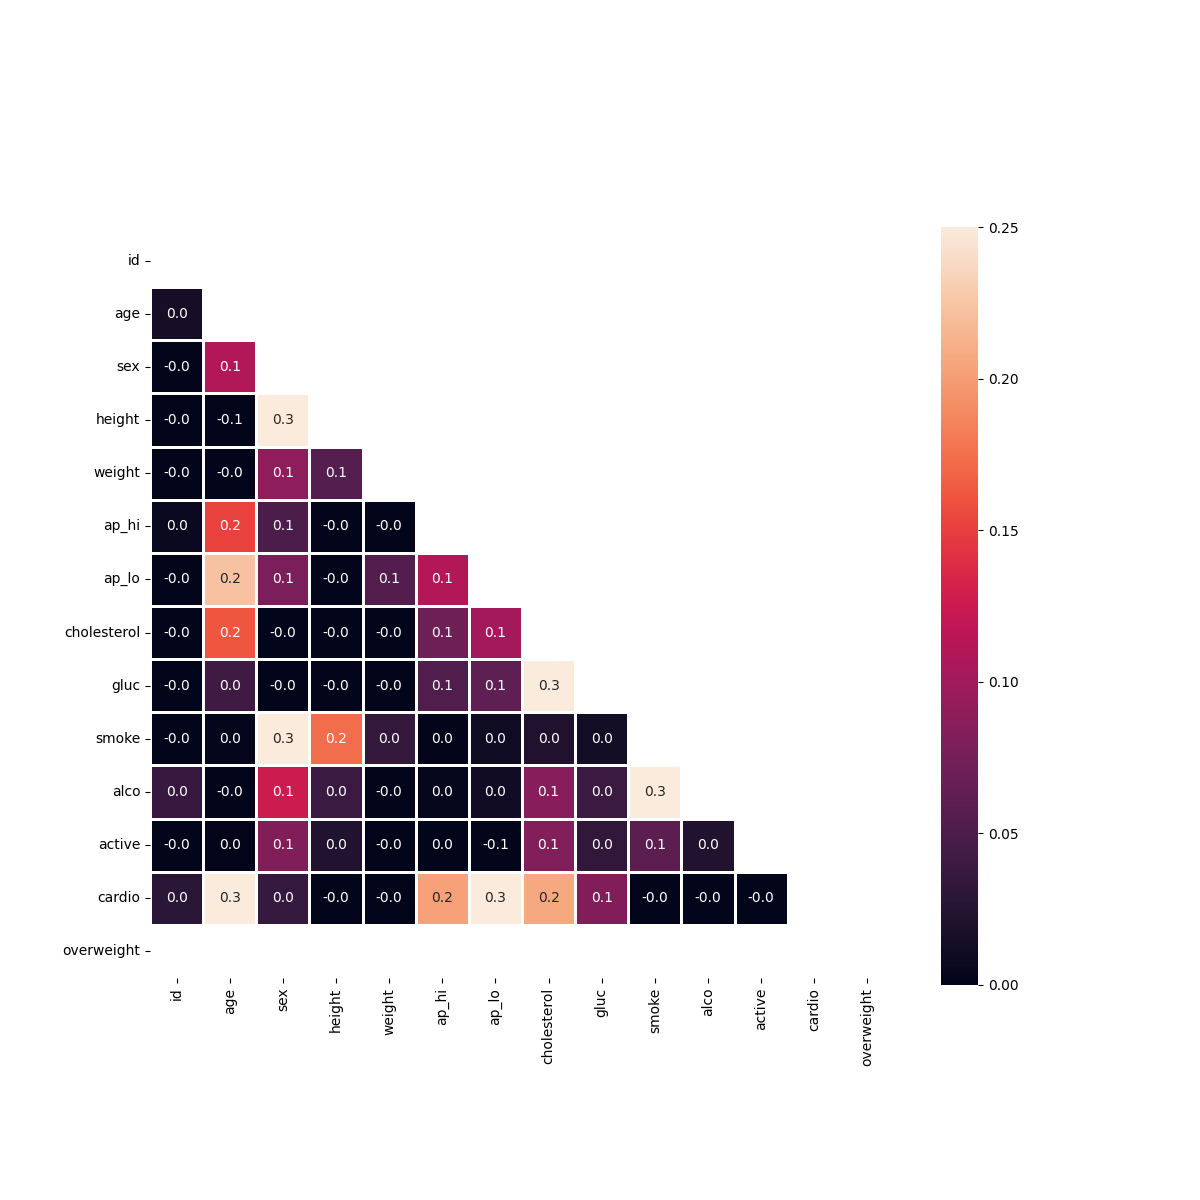
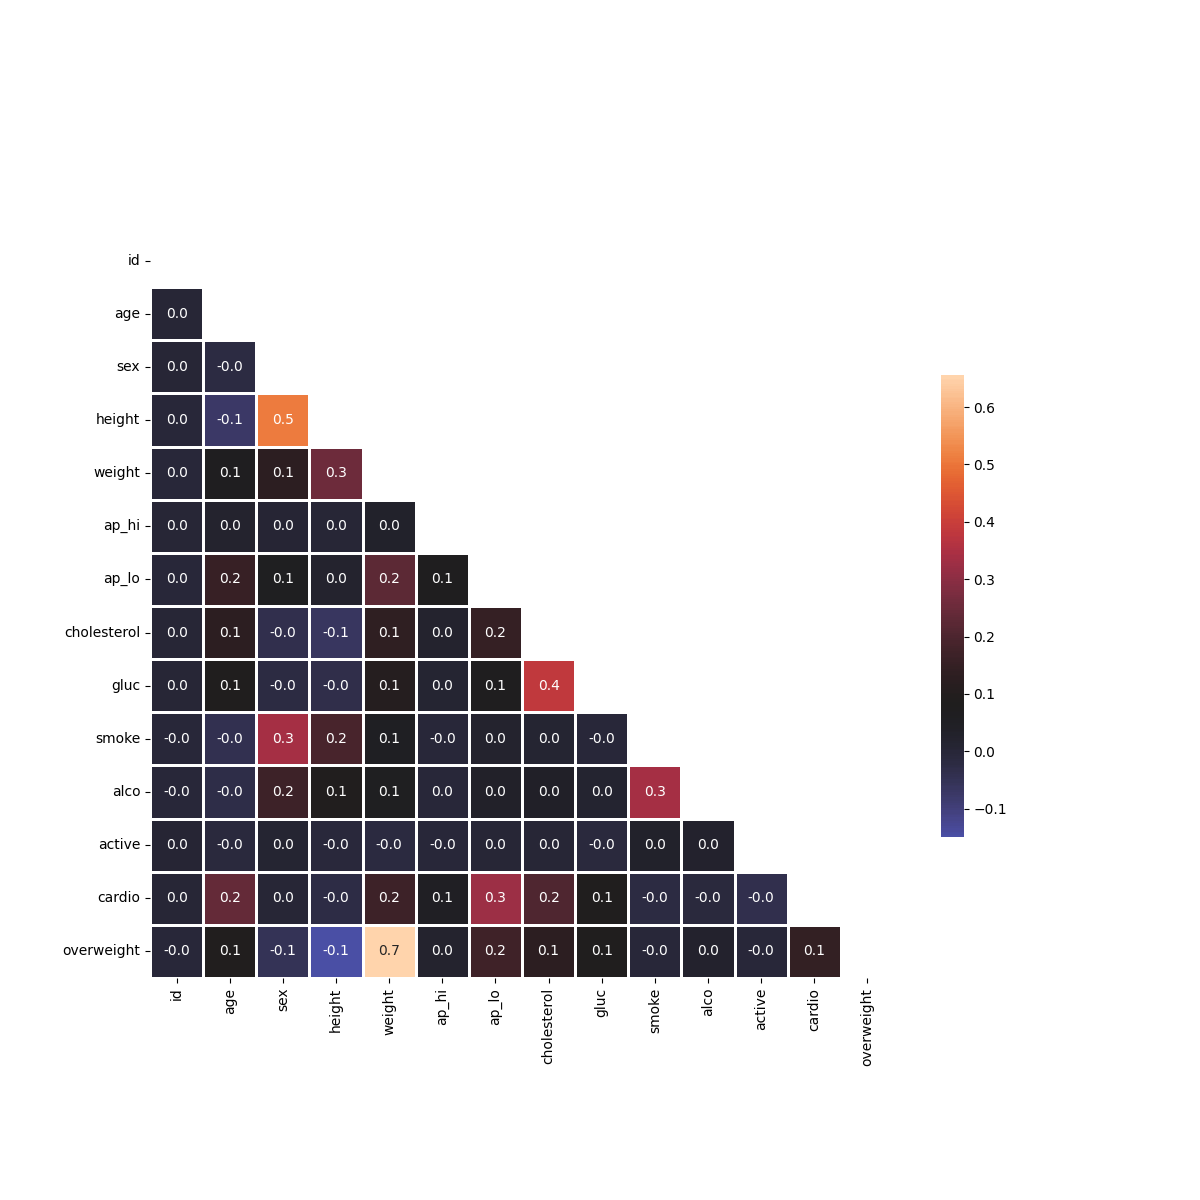
Fixed errors in code, changed to use lambda funct

Changed region(s): [[0.1233, 0.2775, 0.7092, 0.8325], [0.7708, 0.185, 0.8325, 0.8325]]

diff --git a/medical_data_visualizer.py b/medical_data_visualizer.py
@@ -7,25 +7,25 @@ import numpy as np
 df = pd.read_csv('medical_examination.csv')
 
 # 2
-df['overweight'] = np.where((df['weight'] / np.square(df['height'] / 100)) > 25, 1, 0)
+df['overweight'] = (df['weight'] / ((df['height'] / 100) ** 2)).apply(lambda x : 1 if x > 25 else 0)
 
 # 3
-df['cholesterol'] = np.where(df['cholesterol'] == 1, 0, 1)
-df['gluc'] = np.where(df['gluc'] == 1, 0, 1)
+df['cholesterol'] = df['cholesterol'].apply(lambda x: 0 if x == 1 else 1)
+df['gluc'] = df['gluc'].apply(lambda x: 0 if x == 1 else 1)
 
 # 4
 def draw_cat_plot():
     # 5
-    df_cat = pd.melt(df, id_vars = ['cardio'], value_vars = ['active', 'alco', 'cholesterol', 'gluc', 'overweight', 'smoke'])
+    df_cat = pd.melt(df, id_vars = ['cardio'], value_vars = ['cholesterol', 'gluc', 'smoke', 'alco', 'active', 'overweight'])
 
 
     # 6
-    #df_cat = None
+    df_cat['total'] = 1
+    df_cat = df_cat.groupby(['cardio', 'variable', 'value'], as_index = False).count() 
 
 
     # 7
-    figure = sns.catplot(x = 'variable', kind = 'count', hue = 'value', data = df_cat, col = 'cardio')
-    figure.set_axis_labels('variable', 'total')
+    figure = sns.catplot(x = 'variable', y = 'total', kind = 'bar', hue = 'value', data = df_cat, col = 'cardio').fig
 
 
     # 8
@@ -44,15 +44,15 @@ def draw_heat_map():
         (df['ap_lo'] <= df['ap_hi']) &
         (df['height'] >= df['height'].quantile(0.025)) &
         (df['height'] <= df['height'].quantile(0.975)) &
-        (df['weight'] <= df['weight'].quantile(0.025)) &
+        (df['weight'] >= df['weight'].quantile(0.025)) &
         (df['weight'] <= df['weight'].quantile(0.975))
     ]
 
     # 12
-    corr = df_heat.corr()
+    corr = df_heat.corr(method = 'pearson')
 
     # 13
-    mask = np.triu(np.ones_like(corr, dtype = bool))
+    mask = np.triu(corr)
 
 
 
@@ -60,8 +60,7 @@ def draw_heat_map():
     fig, ax = plt.subplots(figsize = (12, 12))
 
     # 15
-    sns.heatmap(corr, vmin = 0, vmax = 0.25, fmt = '.1f',
-                linewidth = 1, annot = True, square = True, mask = mask, cbar_kws = {'shrink': 0.82})
+    sns.heatmap(corr, linewidths = 1, annot = True, square = True, mask = mask, fmt = '.1f', center = 0.08, cbar_kws = {'shrink':0.5})
 
 
     # 16
